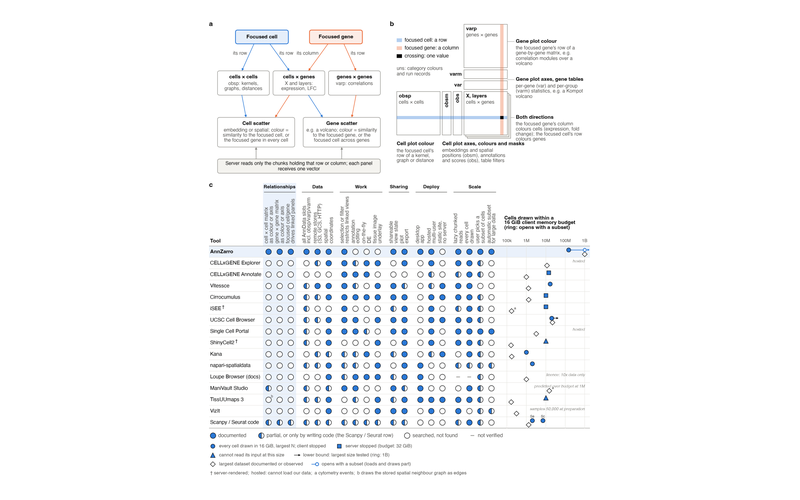
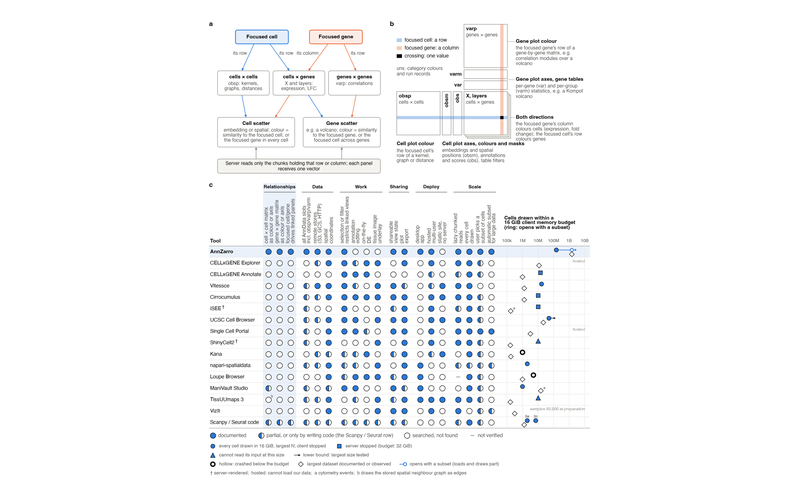
Docs follow the paper and v0.4.0 (consistency audit R4, R6-R9 and nits)
- Protocol panel sets B, C, D match the worked-example steps: B focuses
  H2-Q7 (Step 20), C locks the Young and Old smoothed panels to one range,
  0 to 3.77 (Step 23), D colours by the focused gene's spearman_fold_change
  row (Step 26). start_links.py applies these on import; all five load and
  draw on v0.4.0 against bm_aging.zarr with no page errors.
- Overview figure rebuilt from the paper's current fig1_overview (75fc92c);
  the page lists every tool and says Loupe Browser and ManiVault were
  measured by hand.
- Performance page: drop the supplementary JSON-vs-binary reference.
- Memory guard: allowed to 150M and declined at 160M; without the guard
  175M drew and 200M hung (3 of 3), per the paper's v0.4.0 runs.
- Troubleshooting: step numbers match the paper's table (5, 23, 22, 25,
  39, 43); obsolete 1M-cell selector row removed; Steps 35 and 36 added.
- Scale page: 5-6 s benchmark, screenshots 6.4/7.3/6.3 s, v0.4.0 view
  files; gene-similarity explains 189 of 190; desktop example 0.4.0.

Claude-Session: https://claude.ai/code/session_01JcY7z1g7hK9A5dKMyEtwQY

diff --git a/docs/_tools/start_links.py b/docs/_tools/start_links.py
@@ -22,7 +22,7 @@ Links to a store that is not available are skipped; set ANNZARRO_SCALE_STORE to 
 store (or any prefix of it, e.g. its first 2 million cells) to check the scale links against it.
 
 `scale` writes the views of the paper's scale figure (docs/paper/scale.md) from the view files
-of its screenshots, figures/scale/v030/*.view.json in the paper repository, adding the cell
+of its v0.4.0 screenshots, figures/scale/*.view.json in the paper repository, adding the cell
 subset each panel was drawn with: a deep link records the subset and the part, while the
 screenshot script set them through the app.
 """
@@ -61,7 +61,45 @@ PROTOCOL = {  # paper view file -> docs name
 }
 PROTOCOL_DATASET = "bm_aging.zarr"
 
-# The scale figure: docs name -> (paper view file in figures/scale/v030, subset, title, changes)
+
+def _focus_gene(view: dict, gene: str) -> None:
+    """Focus `gene`, and point every unlocked varp axis or colour at it."""
+    view.setdefault("constants", {})["focusedGene"] = gene
+    for cfg in view["layout"]["panelConfigs"].values():
+        for axis in ("x", "y", "z", "color"):
+            a = cfg.get(axis)
+            if a and a.get("type") == "varp" and not a.get("locked"):
+                a["column"] = gene
+
+
+def _shared_smoothed_range(view: dict) -> None:
+    """Step 23: the Young and Old smoothed panels share one locked colour range: 0 to 3.77, the
+    larger of the two maxima for S100a9 (Young 3.77, Old 3.72), as in the cells-and-genes tutorial."""
+    for cfg in view["layout"]["panelConfigs"].values():
+        if cfg["color"].get("key") in ("kompot_de_Young_smoothed", "kompot_de_Old_smoothed"):
+            cfg.update(colorScale="Viridis", colorMin=0, colorMax=3.77, lockColorRange=True)
+
+
+def _colour_by_focused_gene_row(view: dict) -> None:
+    """Step 26: the gene plot is coloured by varp spearman_fold_change, row of the focused gene."""
+    gene = view["constants"]["focusedGene"]
+    for cfg in view["layout"]["panelConfigs"].values():
+        if cfg["id"].startswith("gene-plot"):
+            cfg["color"] = {"type": "varp", "key": "spearman_fold_change", "column": gene,
+                            "locked": False}
+            cfg.update(colorScale="RdBu", colorMin=-1, colorMax=1, lockColorRange=True)
+
+
+# Where the companion repository's view files differ from the paper's worked-example steps, the
+# paper's text wins (consistency audit R4): WE2, Step 20 focuses H2-Q7; WE3, Step 23 locks the
+# smoothed panels to a shared range; WE4, Step 26 colours by the focused gene's correlation row.
+PROTOCOL_FIXES = {
+    "protocol-B-volcano-spearman": lambda v: _focus_gene(v, "H2-Q7"),
+    "protocol-C-foldchange-umap": _shared_smoothed_range,
+    "protocol-D-locked-vs-focused-cell": _colour_by_focused_gene_row,
+}
+
+# The scale figure: docs name -> (paper view file in figures/scale, subset, title, changes)
 SCALE_STORE = "tahoe_panel_95.6M_plot.zarr"
 DEFAULT_SUBSET = {"n": 100000, "seed": 0}
 SCALE = {
@@ -93,6 +131,7 @@ def import_protocol() -> None:
     out.mkdir(parents=True, exist_ok=True)
     for src, name in PROTOCOL.items():
         view = json.loads((paper() / "data_prep" / "demo_panelsets" / f"{src}.view.json").read_text())
+        PROTOCOL_FIXES.get(name, lambda v: None)(view)
         (out / f"{name}.json").write_text(
             json.dumps(panelset_file(name, view, PROTOCOL_DATASET), indent=2) + "\n")
         print("wrote", out / f"{name}.json")
@@ -101,7 +140,7 @@ def import_protocol() -> None:
 def import_scale() -> None:
     out = PANELSETS / "paper"
     for name, (src, subset, title, changes) in SCALE.items():
-        given = json.loads((paper() / "figures" / "scale" / "v030" / f"{src}.view.json").read_text())
+        given = json.loads((paper() / "figures" / "scale" / f"{src}.view.json").read_text())
         assert Path(given["store"]).name == SCALE_STORE, given["store"]
         view = {k: v for k, v in given["view"].items() if k != "subset"}
         view["subset"] = subset

diff --git a/docs/reference/troubleshooting.md b/docs/reference/troubleshooting.md
@@ -8,7 +8,7 @@ Troubleshooting table and validation notes. Step numbers refer to the paper's Pr
 
 | Symptom | Cause | Fix |
 |---|---|---|
-| Fold-change or smoothed layers missing (Steps 4, 7) | `kompot.cleanup()` was run before saving, as in the Kompot tutorial | Re-run differential expression without the cleanup call ({doc}`../data/kompot`) |
+| Fold-change or smoothed layers missing (Step 5) | `kompot.cleanup()` was run before saving, as in the Kompot tutorial | Re-run differential expression without the cleanup call ({doc}`../data/kompot`) |
 | `TypeError: string indices must be integers` when reading `last_run_info` (Step 5) | Kompot 0.8 stores the run record as a JSON string | `json.loads` it first ({doc}`../data/kompot`) |
 | A key from `field_names` is not in the object | `field_names` lists keys that were not stored | Test membership before use |
 | `ValueError: Cannot overwrite/edit a store with consolidated metadata` (Step 10). Reproduced | `write_zarr` consolidated the store | Open with `zarr.open_group(path, mode="r+", use_consolidated=False)` |
@@ -28,7 +28,6 @@ Troubleshooting table and validation notes. Step numbers refer to the paper's Pr
 | A column, layer or obsp/varp key written with `anndata.io.write_elem` is missing from the menus, or answers `404` `key_not_found` | The store has consolidated metadata, and it was not updated after the write (`zarr.consolidate_metadata`), so zarr does not list the new element | The same: **Refresh dataset** (notice "Consolidated metadata out of date"; the element appears), then `zarr.consolidate_metadata(path)` and refresh |
 | `404` `key_not_found` ("No layers key '…' in this dataset") or `400` `index_out_of_range`. Reproduced | A key, column or index the dataset does not have, often from a panel set or link made for another store | Check the keys with `GET /api/v1/data/dataset_structure` |
 | Changes to a store do not show up | A rewrite (anndata `write_elem`, a new `.h5ad`) is seen on the next read; an in-place overwrite of chunk files (`g["obs/x"][:] = v`) is not, because nothing at the store's top level changes | Click **Refresh dataset** in the header: any user may, and the server re-checks the store on disk and serves a change from every worker. `POST /api/v1/data/refresh?dataset_path=` does the same from a script; `POST /api/v1/cache/reset` (admins only on a shared server) also clears the server's cache ({ref}`revalidation`) |
-| First view slow on datasets with about 1M cells (Step 12) | The Focused Cell selector lists every cell name (36 MB at 1.17M cells) | Expected in this release; selecting cells by clicking works |
 | Remote dataset refused with `403` `access_denied`: "Remote datasets are disabled on this server (remote_stores: auto (…))" or "Remote dataset URL is not under an allowed prefix" | The server is shared (login on, a network host, gunicorn, or `proxy_count` above 0) and the URL is not in `remote_allowlist`. Builds before 58122bc (PR #43) also refused on a laptop because `proxy_count` defaulted to 1 | Add the URL prefix to `server.remote_allowlist`; on a single-user laptop server check that `proxy_count` is 0 and login is off, then the startup log reads `remote_stores: auto (local single-user server)` ({doc}`../user-guide/remote-datasets`) |
 | `501` `missing_dependency`: `Reading https:// datasets needs the optional package(s) fsspec, aiohttp`. Reproduced | Remote extras not installed | `pip install 'annzarro[remote]'` |
 | `Configuration error: Missing required configuration: server.host / server.port / server.data_dir` | AnnZarro before PR #43, started outside its source tree | Upgrade; with this branch `annzarro start --data-dir … --port …` works from any directory (verified) |
@@ -51,17 +50,19 @@ Troubleshooting table and validation notes. Step numbers refer to the paper's Pr
 | X is not in any source menu | X is listed under the **layer** source, first, not as a source of its own; a layer named `X` takes its place | Choose source **layer**, key **X**; to see the matrix X next to such a layer, rename the layer ({doc}`../data/slot-map`) |
 | Gene Plot shows no options (Step 18) | Default source is varm and the dataset has none | Switch the axis source to var |
 | Volcano all grey (Step 20) | Focused gene has no row in the varp matrix (outside a gene subset) | Click a gene that is in the matrix, or pick one from the Focused Gene selector |
-| Colour range looks wrong after loading a view (Steps 22-23) | Range restored from another focus | Toggle Lock Range or reset min and max |
-| Each gene click takes seconds (Steps 15, 22) | The layer is CSR (whole-matrix load per gene), or dense and chunked wide in genes | Store it CSC, or rechunk by the aspect rule ({doc}`../data/chunking`) |
-| First click on a new cell in a cell-row plot takes over 20 s (Steps 25-27) | Layer chunked as whole gene columns (all cells × a few genes), so one cell row decompresses the entire layer | Rechunk; repeat clicks are faster but still decompress the layer |
+| Colour range looks wrong after loading a view (Step 23) | Range restored from another focus | Toggle Lock Range or reset min and max |
+| Each gene click takes seconds (Step 22) | The layer is CSR (whole-matrix load per gene), or dense and chunked wide in genes | Store it CSC, or rechunk by the aspect rule ({doc}`../data/chunking`) |
+| First click on a new cell in a cell-row plot takes over 20 s (Step 25) | Layer chunked as whole gene columns (all cells × a few genes), so one cell row decompresses the entire layer | Rechunk; repeat clicks are faster but still decompress the layer |
+| First search for a cell by name takes several seconds on tens of millions of cells (Step 35) | The server builds its index of cell names on the first search (6.3-6.8 s at 50 million cells in the paper's runs; 0.8 s once a local server has built it in the background) | Expected once per dataset and server; later searches are fast |
+| Hover and clicks do nothing in a Cell Plot; a notice above it reads Large-plot mode (Step 36) | More than 1 million points are drawn, for example with the subset switched off | Switch the subset back on (Step 32) and step through parts (Step 34) ({doc}`../user-guide/subsets`) |
 | Cell rows of X are slow (215 ms here, more at scale) | X stored CSC: a cell row scans every chunk of the matrix (in bounded blocks, so memory stays small) | Expected trade-off; use a dense layer for cell-row views |
 
 ## Sharing and hosting
 
 | Symptom | Cause | Fix |
 |---|---|---|
-| Shared link returns "Request Line is too large" (Step 34) | A legacy `?view=` link longer than gunicorn's 4,094-byte request line | Use Share Link on this release: it puts the view in the `#view=` fragment, compressed, which never reaches the server ({doc}`deep-links`) |
-| Remote users see no login (Step 38) | Server bound to localhost, or started with `--auth-disabled` or `ANNZARRO_AUTH_DISABLED=true` | Run behind a proxy with gunicorn, or start with `--host 0.0.0.0` and without `--auth-disabled` ({doc}`../deployment/lab-server`) |
+| Shared link returns "Request Line is too large" (Step 39) | A legacy `?view=` link longer than gunicorn's 4,094-byte request line | Use Share Link on this release: it puts the view in the `#view=` fragment, compressed, which never reaches the server ({doc}`deep-links`) |
+| Remote users see no login (Step 43) | Server bound to localhost, or started with `--auth-disabled` or `ANNZARRO_AUTH_DISABLED=true` | Run behind a proxy with gunicorn, or start with `--host 0.0.0.0` and without `--auth-disabled` ({doc}`../deployment/lab-server`) |
 | Login works over `http://` but not over `https://`, or the reverse | `auth.cookie_secure: true` sends the cookie only over HTTPS; behind a TLS proxy with `proxy_count: 0` the server does not see that the request was HTTPS | Leave `cookie_secure: auto` and set `proxy_count` to the number of proxies ({doc}`../deployment/authentication`) |
 | Everyone is locked out after a few failed logins | Lockout is per username and client address; with `proxy_count` too low all users appear to come from the proxy's address | Set `server.proxy_count: 1` behind nginx |
 | `403` with `"reason": "outside_data_dir"`. Reproduced | Hosted server (login on, or network host) and a `dataset_path` outside the data directory | Put the store under the data directory, or add its folder to `server.allowed_dirs` |

diff --git a/docs/paper/overview.md b/docs/paper/overview.md
@@ -1,7 +1,7 @@
 # Overview: focus model, slots and comparison
 
 ```{figure} ../_static/figures/paper/overview.png
-:alt: Three panels. a, the focus model: the focused cell selects its row of cells x cells (obsp) and of cells x genes (X and layers), the focused gene its column of cells x genes and its row of genes x genes (varp); each colours a cell or gene scatter, and the server reads only the chunks of that row or column. b, the AnnData slot map with the focused cell as a blue row and the focused gene as an orange column through every cell- or gene-indexed array. c, a feature table comparing AnnZarro with CELLxGENE, Vitessce, Cirrocumulus, iSEE, UCSC Cell Browser, ShinyCell and Scanpy or Seurat code.
+:alt: Three panels. a, the focus model: the focused cell selects its row of cells x cells (obsp) and of cells x genes (X and layers), the focused gene its column of cells x genes and its row of genes x genes (varp); each colours a cell or gene scatter, and the server reads only the chunks of that row or column. b, the AnnData slot map with the focused cell as a blue row and the focused gene as an orange column through every cell- or gene-indexed array. c, a feature table comparing AnnZarro with CELLxGENE Explorer, CELLxGENE Annotate, Vitessce, Cirrocumulus, iSEE, UCSC Cell Browser, Single Cell Portal, ShinyCell2, Kana, napari-spatialdata, Loupe Browser, ManiVault Studio, TissUUmaps 3, VizIt and Scanpy or Seurat code, with a strip of the largest number of cells each drew within a 16 GiB client memory budget.
 :width: 100%
 
 *The focus model, the AnnData slots behind it, and AnnZarro compared with other viewers*, the
@@ -146,13 +146,17 @@ outside the PCA have zero loadings and sit at the origin.
 ## c · Comparison with other viewers
 
 Panel c scores other single-cell viewers and analysis code in Scanpy or Seurat, one row per tool
-(CELLxGENE as its two programs, Explorer and Annotate; Loupe Browser from its documentation
-only) and one column per capability, grouped by job. The shaded relationship columns are what
+(CELLxGENE as its two programs, Explorer and Annotate) and one column per capability, grouped by
+job. The shaded relationship columns are what
 AnnZarro adds: a stored cells × cells or genes × genes matrix becomes a colour or an axis, and
 the focused cell or gene picks which row every linked panel shows. The table also records what
 AnnZarro does not do: annotation editing, differential expression on the fly, tissue image
 underlays and a static-site mode. A Cells strip gives, per tool, the largest dataset built from
-Tahoe-100M of which it drew every cell within a 16 GiB client memory budget; AnnZarro's own
+Tahoe-100M of which it drew every cell within a 16 GiB client memory budget. Most tools were
+driven by a script; the two desktop applications, Loupe Browser and ManiVault Studio, were measured
+by hand in a desktop session on the same inputs (Loupe Browser drew every cell up to 5 million at
+5.7 GiB; at 10 million its renderer process exited when colouring by a gene). CELLxGENE Explorer,
+Single Cell Portal and VizIt were not measured and show their documented size. AnnZarro's own
 measurements on Tahoe-100M are on {doc}`scale`. The panel is not an AnnZarro view and has no walkthrough here. The
 source behind every cell of the table is listed in the paper's companion repository
 (`figures/COMPARISON_NOTES.md`, checked October 2026; {ref}`paper-companion`).

diff --git a/docs/reference/configuration.md b/docs/reference/configuration.md
@@ -128,10 +128,9 @@ as `performance.memory.jsHeapSizeLimit`), and no flag raises it; a test tab died
 Typed arrays are outside that heap and are limited only by the computer's memory. So `heap_gb`
 is the setting that matters; `total_gb` is for computers with little memory.
 
-**How the estimates were made.** On an Apple M3 Max laptop with Chrome, drawing up to 182 million
-points (the paper's scale benchmark, {ref}`paper-companion`): a Cell Plot in large-plot mode holds 20.2 bytes of the
-JavaScript heap per point (1.94 GB at 95.6 million points, 3.53 GB at 175 million; 182 million
-crashed); a regular plot coloured by a gene 640 bytes per point at its peak (3.36 GB at 5
+**How the estimates were made.** On an Apple M3 Max laptop with Chrome, in the paper's scale
+benchmark ({ref}`paper-companion`): a Cell Plot in large-plot mode holds 20.2 bytes of the
+JavaScript heap per point (1.94 GB at 95.6 million points); a regular plot coloured by a gene 640 bytes per point at its peak (3.36 GB at 5
 million); the app itself 0.17 GB. A full-resolution image export draws the plot again and needs
 about the plot's own share again while it runs. Some costs are still estimated from the code
 rather than measured (the export, a recolour, 3D, a table row); the guard multiplies every
@@ -139,8 +138,12 @@ prediction by 1 + `margin` and adds 0.25 to the margin in a browser whose tab cl
 marked action. Firefox and Safari report no memory figures; they are held to Chrome's limit.
 
 **Defaults.** `enforce: block`, `heap_gb: null` (the browser's own limit), `total_gb: null`,
-`margin: 0.2`. With these, a single plot of up to about 160 million points is allowed in
-large-plot mode, and two plots of 95.6 million points are not.
+`margin: 0.2`. With these, in the paper's v0.4.0 runs, a single plot of every cell was allowed in
+large-plot mode for stores up to 150 million cells and declined at 160 million ("Needs ~3.9 GB of
+browser JS memory; 3.9 GB free with 1 plot open (of 4.0 GB, estimated)"); two plots of 95.6
+million points are not allowed. Without the guard, the browser drew 175 million
+cells, and at 200 million the page stopped responding in 3 of 3 attempts: a hang, not a memory
+crash.
 
 **When to change them.**
 

diff --git a/docs/reference/deep-links.md b/docs/reference/deep-links.md
@@ -77,21 +77,21 @@ the same view with **Load Panel Set** > **Upload file**.
 {download}`protocol-A-kernel-walk.json <../_static/panelsets/protocol/protocol-A-kernel-walk.json>`
 ::::
 
-::::{dropdown} B: volcano coloured by the focused gene's Spearman rows (smoothed, fold change)
+::::{dropdown} B: volcano coloured by H2-Q7's Spearman rows (smoothed, fold change)
 ```{literalinclude} ../_static/panelsets/protocol/protocol-B-volcano-spearman.url.txt
 :language: text
 ```
 {download}`protocol-B-volcano-spearman.json <../_static/panelsets/protocol/protocol-B-volcano-spearman.json>`
 ::::
 
-::::{dropdown} C: the focused gene's fold change, Young and Old smoothed expression
+::::{dropdown} C: the focused gene's fold change, Young and Old smoothed expression on one locked range
 ```{literalinclude} ../_static/panelsets/protocol/protocol-C-foldchange-umap.url.txt
 :language: text
 ```
 {download}`protocol-C-foldchange-umap.json <../_static/panelsets/protocol/protocol-C-foldchange-umap.json>`
 ::::
 
-::::{dropdown} D: fold-change rows of a locked HSC against the focused cell
+::::{dropdown} D: fold-change rows of a locked HSC against the focused cell, coloured by a varp row
 ```{literalinclude} ../_static/panelsets/protocol/protocol-D-locked-vs-focused-cell.url.txt
 :language: text
 ```
@@ -105,8 +105,9 @@ the same view with **Load Panel Set** > **Upload file**.
 {download}`protocol-E-table-filter.json <../_static/panelsets/protocol/protocol-E-table-filter.json>`
 ::::
 
-`docs/_tools/start_links.py` imports them from the paper repository, writes every link of the
-docs from its panel set file, and opens each one in a headless browser.
+`docs/_tools/start_links.py` imports them from the paper repository, sets B, C and D to the
+paper's worked-example steps where the repository's view files differ (Steps 20, 23 and 26),
+writes every link of the docs from its panel set file, and opens each one in a headless browser.
 
 ## The `view` object
 

diff --git a/docs/paper/procedure.md b/docs/paper/procedure.md
@@ -44,7 +44,8 @@ The five-step diffusion walk and the kernel row of the focused cell. Tutorial:
 ::::
 
 ::::{dropdown} Worked example 2: browse co-regulated genes in the volcano
-The volcano coloured by the focused gene's Spearman rows, smoothed and fold change. Tutorial:
+The volcano coloured by the Spearman rows (smoothed and fold change) of the focused gene H2-Q7
+(Step 20). Tutorial:
 {doc}`../tutorials/gene-similarity`.
 
 ```{literalinclude} ../_static/panelsets/protocol/protocol-B-volcano-spearman.url.txt
@@ -54,7 +55,8 @@ The volcano coloured by the focused gene's Spearman rows, smoothed and fold chan
 ::::
 
 ::::{dropdown} Worked example 3: from a gene to the cells where it changes
-The focused gene's fold change, and its Young and Old smoothed expression. Tutorial:
+The focused gene's fold change, and its Young and Old smoothed expression on one locked colour
+range (Step 23). Tutorial:
 {doc}`../tutorials/cells-and-genes`.
 
 ```{literalinclude} ../_static/panelsets/protocol/protocol-C-foldchange-umap.url.txt
@@ -64,7 +66,8 @@ The focused gene's fold change, and its Young and Old smoothed expression. Tutor
 ::::
 
 ::::{dropdown} Worked example 4: compare two cell states gene by gene
-The fold-change rows of a locked HSC against the focused cell. Tutorial:
+The fold-change rows of a locked HSC against the focused cell, coloured by the focused gene's
+row of `spearman_fold_change` (Step 26). Tutorial:
 {doc}`../tutorials/cells-and-genes`.
 
 ```{literalinclude} ../_static/panelsets/protocol/protocol-D-locked-vs-focused-cell.url.txt

diff --git a/docs/paper/scale.md b/docs/paper/scale.md
@@ -46,7 +46,8 @@ every cell is bounded by the tab's JavaScript heap. The steps behind each view a
   the paper's benchmark results ({ref}`paper-companion`). They have no view. On your own machine, the
   times depend on the disk, the browser and the GPU.
 - **Times are the paper's.** The views were not timed for this page; on a 95.6-million-cell store
-  expect several seconds per every-cell view (6.3 to 7.6 s in the paper's runs).
+  expect several seconds per every-cell view. The paper's benchmark drew every cell in 5 to 6 s;
+  its screenshots of panels a, b and c were drawn 6.4, 7.3 and 6.3 s after the page was opened.
 
 (paper-scale-views)=
 ## Views
@@ -102,7 +103,7 @@ Loading one restores the dataset, the subset, the focus and the layout, like the
 ({doc}`../user-guide/panel-sets`).
 
 The views are written by `docs/_tools/start_links.py scale` from the view files of the paper's
-screenshots (`figures/scale/v030/*.view.json` in the paper's companion repository,
+v0.4.0 screenshots (`figures/scale/*.view.json` in the paper's companion repository,
 {ref}`paper-companion`). The script adds what
 the screenshot script set through the app: the subset, the part, and the zoom and point size of
 panel c.

diff --git a/docs/getting-started/desktop-app.md b/docs/getting-started/desktop-app.md
@@ -8,7 +8,7 @@ separate Python installation and no login. It is the "Desktop app" arrangement o
 
 Standalone apps for macOS, Windows and Linux are published with each release on the
 [GitHub releases page](https://github.com/settylab/annzarro/releases) of `settylab/annzarro`.
-`<version>` below is the release, for example `0.3.1`.
+`<version>` below is the release, for example `0.4.0`.
 
 | System | File | What it is |
 |---|---|---|
@@ -128,8 +128,8 @@ to `annzarro/__init__.py`, `annzarro/desktop/electron/package.json` and its `pac
 CI refuses a build whose `package.json` differs, and `annzarro/tests/utils/test_bump_version.py`
 checks that all of them agree.
 
-1. `python bump_version.py 0.3.1`, commit, merge.
-2. Tag and push: `git tag v0.3.1 && git push origin v0.3.1`.
+1. `python bump_version.py 0.4.0`, commit, merge.
+2. Tag and push: `git tag v0.4.0 && git push origin v0.4.0`.
 3. The workflow `.github/workflows/build.yml` builds and smoke-tests macOS (arm64, x64), Windows
    and Linux, then creates a **draft** release with all files and `SHA256SUMS.txt`. Review it
    and publish.

diff --git a/docs/tutorials/gene-similarity.md b/docs/tutorials/gene-similarity.md
@@ -161,8 +161,10 @@ genes only.
 1. Add a gene plot. Set **X** to `var`, `fig4c_rank_H2-Q7`, **Y** to `var`,
    `rho_fc_H2-Q7` and **Color** to `var`, `fig4_module_k3`. **Palette** stays at "As
    stored in adata.uns", which gives the paper's purple, green and amber.
-2. Non-DE genes have no rank, so 16,096 genes have no x value and are not drawn. The tile says so
-   in a blue notice ("189 of 16,285 genes shown").
+2. Only DE genes have a rank, and H2-Q7 has none either: it is the gene the others are ranked
+   against. So the 16,095 non-DE genes and H2-Q7 itself, 16,096 genes, have no x value and are
+   not drawn, and the tile shows the other 189 of the 190 DE genes in a blue notice ("189 of
+   16,285 genes shown"). The S100a9 plot of step 3 likewise leaves out S100a9.
 3. Add a second gene plot with `fig4c_rank_S100a9`, `rho_fc_S100a9` and the same colour.
 4. Add a gene table with the columns `fig4_module_k3`, `rho_fc_H2-Q7`, `rho_fc_S100a9` and
    `kompot_de_Young_to_Old_mahalanobis` (tab `var`). In **Advanced Search**, **Add Condition**

diff --git a/docs/user-guide/subsets.md b/docs/user-guide/subsets.md
@@ -68,8 +68,9 @@ show the dialog. On a large dataset the steps are the same.
    Sizes above the large-plot limit (1,000,000 points by default, set by the server) come after a
    dashed line that says so: large-plot mode draws them faster but without hover, click or table
    filters ([Very large datasets](#very-large-datasets)). A size above 150 million points says
-   **may exceed browser memory** and is never chosen for you: a laptop's Chrome drew 175 million
-   points and ran out of memory at 182 million. For any other size, type it in **Cells**, here `3000`; the
+   **may exceed browser memory** and is never chosen for you: in the paper's v0.4.0 runs on a
+   laptop, the memory guard allowed every cell up to 150 million and declined 160 million; with
+   the guard off, Chrome drew 175 million points and stopped responding at 200 million. For any other size, type it in **Cells**, here `3000`; the
    parts and estimate follow it. **All** keeps every cell that passes the conditions below
    instead of a fixed number.
 

diff --git a/docs/paper/performance.md b/docs/paper/performance.md
@@ -24,9 +24,7 @@ browser, see {doc}`scale`.
 | d | cold cell row against cold gene column, one point per chunk shape | whole-gene chunks make one cell row decompress the whole layer (45 s on HPC); anndata's default chunks keep both reads fast |
 
 Conditions: panel a counts bytes in the binary format the current AnnZarro sends. Panels b to d
-were measured with AnnZarro 0.1.1 (commit `63b57e6`), which sent vectors as JSON; a
-supplementary figure of the paper compares JSON with the binary encoding at one million cells
-(stored in `figures/fast_transfer_pr44.csv`). Laptop: Apple M3 Max, 128 GB, NVMe/APFS,
+were measured with AnnZarro 0.1.1 (commit `63b57e6`), which sent vectors as JSON. Laptop: Apple M3 Max, 128 GB, NVMe/APFS,
 synthetic n × 5,000 float32 stores; *cold* is a fresh server on a fresh APFS clone, *warm* a
 new index with the page cache warm. HPC: Xeon Gold 6254 nodes, 4 CPUs per job, NFS
 (`/hpc/temp`), real datasets; *warm* repeats the same index, the more favourable definition.
